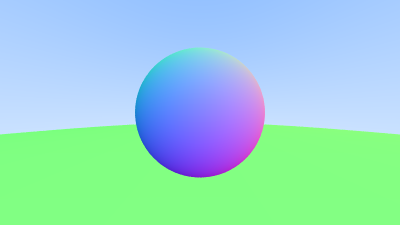
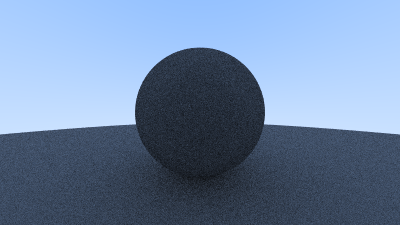
Rays tracing

diff --git a/src/vec3.rs b/src/vec3.rs
@@ -1,6 +1,7 @@
 pub mod color;
 
 use std::ops::{Add, AddAssign, Div, Mul, Neg, Sub};
+use rand::{thread_rng, Rng};
 
 #[derive(Copy, Clone, PartialEq, Debug )]
 pub struct Vec3 {
@@ -23,6 +24,26 @@ impl Vec3{
         Vec3 { x: 0.0, y: 0.0, z: 0.0 }
     }
 
+    ///Create a new Vec3 with coordinates in the range 0..1
+    pub fn new_random() -> Vec3 {
+        let mut rng = thread_rng();
+        Vec3 {
+            x: rng.gen_range(0f64..1f64), 
+            y: rng.gen_range(0f64..1f64), 
+            z: rng.gen_range(0f64..1f64), 
+        }
+    }
+
+    ///Create a new Vec3 with coordinates in the range min..max 
+    pub fn new_random_in_range(min: f64, max: f64) -> Vec3 {
+        let mut rng = thread_rng();
+        Vec3 {
+            x: rng.gen_range(min..max), 
+            y: rng.gen_range(min..max), 
+            z: rng.gen_range(min..max), 
+        }
+    }
+
     //Methods 
     pub fn length_squared(self: &Self) -> f64 {
         self.x*self.x + self.y*self.y + self.z*self.z
@@ -30,6 +51,32 @@ impl Vec3{
 
     pub fn length(&self) -> f64 {
         self.length_squared().sqrt()
+    }
+    
+
+    pub fn random_in_unit_sphere() -> Vec3 {
+        loop {
+            //Get a random vector inside the unit cube
+            let p = Vec3::new_random_in_range(-1.0, 1.0); 
+            //Return the first vector that is also inside the unit sphere
+            // rejecting vectors that are not. 
+            if p.length_squared() < 1.0 {
+                break p
+            }
+        }
+    }
+
+    pub fn random_unit_vector() -> Vec3 {
+        Vec3::unit_vector(&Vec3::random_in_unit_sphere())
+    }
+
+    pub fn random_on_hemisphere(normal :&Vec3) -> Vec3 {
+        let on_unit_sphere = Vec3::random_unit_vector();
+        if Vec3::dot(&on_unit_sphere, normal) > 0.0 {
+            on_unit_sphere
+        } else {
+            -on_unit_sphere
+        }
     }
 
     //Other associated functions 

diff --git a/src/camera.rs b/src/camera.rs
@@ -99,11 +99,10 @@ impl Camera {
         let hit_test = world.hit(r, Interval::new(0.0, f64::INFINITY));
       
         match hit_test {
-            Some(hit_record) => {
-                //Part of a hittable, so compute colour based on the surface normal.
-                //The normal has -1 <= x, y, z <= 1 so to get a colour just map
-                //  these values into [0 .. 1] using the map value -> (value + 1) / 2
-                0.5 * Color::new(hit_record.normal.x + 1.0, hit_record.normal.y + 1.0, hit_record.normal.z + 1.0)
+            Some(hit_record) => {                
+                //Part of a hittable, so compute colour for a mid-grey diffuse material
+                let direction = Vec3::random_on_hemisphere(&hit_record.normal);
+                0.5 * Camera::ray_color(&Ray::new(hit_record.p, direction), world)
             }
             None => {
                 //Part of the background, so compute blue gradient
